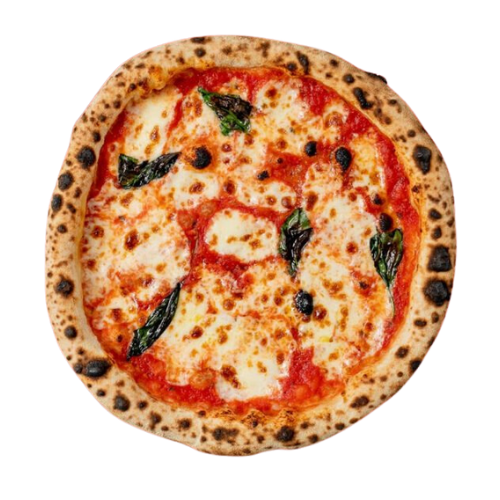
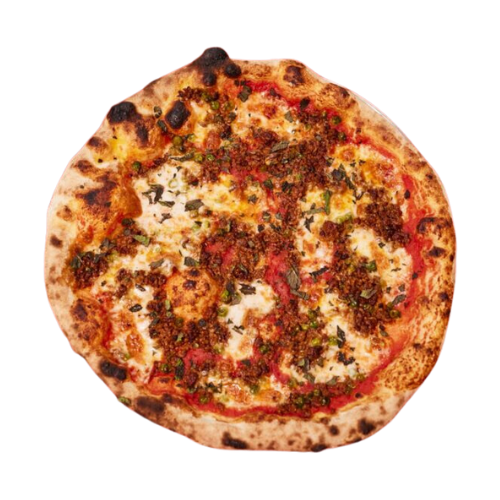
Update menu with correct pizzas and remove unused categories

diff --git a/src/data/products.ts b/src/data/products.ts
@@ -1,232 +1,134 @@
 export interface Product {
   id: string;
   name: string;
-  category: 'GARLIC' | 'CLASSICS' | 'ALFI_FAVS' | 'DIPS' | 'DRINKS' | 'DESSERT';
+  category: 'GARLIC' | 'CLASSICS' | 'ALFI_FAVS';
   price: number;
   description: string;
   subDescription?: string;
-  image?: string;
+  image: string;
 }
 
 export const products: Product[] = [
   // Garlic Section
   {
-    id: 'cheesy-garlic',
-    name: 'CHEESY GARLIC',
+    id: 'og',
+    name: 'The O.G.',
     category: 'GARLIC',
     price: 120,
-    description: 'Mozzarella, herbs, garlic',
-    subDescription: 'Soft, cheesy goodness with a perfect blend of herbs and garlic on a light, airy dough.'
-  },
-  {
-    id: 'garlic-bread',
-    name: 'GARLIC BREAD',
-    category: 'GARLIC',
-    price: 110,
-    description: 'Focaccia bread, garlic, olive oil',
-    subDescription: 'Crispy, herb-infused focaccia paired with fresh garlic and a drizzle of olive oil.'
-  },
-  {
-    id: 'nap-garlic-parmesan',
-    name: 'NAP GARLIC PARMESAN',
-    category: 'GARLIC',
-    price: 130,
-    description: 'Focaccia bread, garlic, olive oil',
-    subDescription: 'Crispy, herb-infused focaccia paired with fresh garlic and a drizzle of olive oil.'
-  },
-  {
-    id: 'garlic-ricotta',
-    name: 'GARLIC AND RICOTTA',
-    category: 'GARLIC',
-    price: 150,
-    description: 'Piped ricotta, garlic, olive oil, herbs',
-    subDescription: 'Delicate star-like dollops of creamy ricotta, kissed with roasted garlic and a drizzle of olive oil.'
+    description: 'Our signature garlic pizza',
+    image: '/pizzas/og_alfi_uber.png',
+    subDescription: 'The original garlic pizza that started it all'
   },
 
   // Classics Section
   {
-    id: 'margherita',
-    name: 'MARGHERITA',
+    id: 'margeritta',
+    name: 'Margeritta',
     category: 'CLASSICS',
-    price: 110,
-    description: 'Mozzarella, basil leaf, Nap sauce',
-    subDescription: 'The timeless classic – velvety mozzarella and fresh basil on a rich Nap sauce base.'
-  },
-  {
-    id: 'sicilian',
-    name: 'SICILIAN',
-    category: 'CLASSICS',
-    price: 160,
-    description: 'Capers, anchovies, kalamata olives',
-    subDescription: 'A bold pizza featuring briny capers, salty anchovies, and savory olives. Puttanesca Option: No anchovies, green & black olives, and diced tomatoes.'
-  },
-  {
-    id: 'funghi',
-    name: 'FUNGHI',
-    category: 'CLASSICS',
-    price: 160,
-    description: 'Creamy porcini, mozzarella, truffle',
-    subDescription: 'Earthy and luxurious porcini mushrooms with truffle, perfectly melted into creamy mozzarella.'
+    price: 120,
+    description: 'Classic Italian pizza with tomato and mozzarella',
+    image: '/pizzas/margeritta.png',
+    subDescription: 'The timeless classic'
   },
   {
     id: 'diavola',
-    name: 'DIAVOLA',
+    name: 'Diavola',
     category: 'CLASSICS',
-    price: 180,
-    description: 'Mozzarella, spicy Nap sauce',
-    subDescription: 'Spicy, fiery, and delicious – zesty Nap sauce with melted mozzarella for a bold kick.'
+    price: 140,
+    description: 'Spicy salami, tomato sauce, mozzarella',
+    image: '/pizzas/diavola_alfi_uber.png',
+    subDescription: 'For those who love it hot'
   },
   {
-    id: 'quatro-stagioni',
-    name: 'QUATRO STAGIONI',
+    id: 'funghi',
+    name: 'Funghi',
     category: 'CLASSICS',
-    price: 175,
-    description: 'Italian salami, artichoke, olives, onion',
-    subDescription: 'Savory Italian salami, tangy artichokes, briny olives, and sweet caramelized onions.'
+    price: 135,
+    description: 'Fresh mushrooms, mozzarella, herbs',
+    image: '/pizzas/fhungi_alfi_uber.png',
+    subDescription: 'Earthy mushroom goodness'
   },
   {
-    id: 'melanzane',
-    name: 'MELANZANE',
+    id: 'quatro-stagione',
+    name: 'Quatro Stagione',
     category: 'CLASSICS',
-    price: 160,
-    description: 'Roasted eggplant, mozzarella, Nap sauce, basil',
-    subDescription: 'Tender roasted eggplant, rich Nap sauce, creamy mozzarella, and fragrant basil. Simple, hearty, and packed with Mediterranean flavor.'
+    price: 150,
+    description: 'Four seasons on one pizza',
+    image: '/pizzas/quatro_alfi_uber.png',
+    subDescription: 'A taste of all seasons'
+  },
+  {
+    id: 'margeritta-speciale',
+    name: 'Margeritta Speciale',
+    category: 'CLASSICS',
+    price: 140,
+    description: 'Our special take on the classic',
+    image: '/pizzas/margspecial_alfi_uber.png',
+    subDescription: 'A special twist on tradition'
+  },
+  {
+    id: 'vegiterian',
+    name: 'Vegiterian',
+    category: 'CLASSICS',
+    price: 145,
+    description: 'Fresh vegetables and mozzarella',
+    image: '/pizzas/veg_alfi_uber.png',
+    subDescription: 'Garden fresh vegetables'
+  },
+  {
+    id: 'sicilian',
+    name: 'Sicilian',
+    category: 'CLASSICS',
+    price: 155,
+    description: 'Traditional Sicilian style pizza',
+    image: '/pizzas/sicilian_alfi_uber.png',
+    subDescription: 'A taste of Sicily'
+  },
+  {
+    id: 'mexicana',
+    name: 'Mexicana',
+    category: 'CLASSICS',
+    price: 155,
+    description: 'Mexican inspired flavors',
+    image: '/pizzas/mexicana.png',
+    subDescription: 'South of the border taste'
   },
 
   // Alfi Favs Section
   {
-    id: 'mexicana',
-    name: 'MEXICANA',
+    id: 'double-chorizo',
+    name: 'Double Chorizo',
     category: 'ALFI_FAVS',
-    price: 180,
-    description: 'Beef bolognese, onion, green pepper',
-    subDescription: 'A hearty pizza with rich beef bolognese, sweet green peppers, and caramelized onions.'
+    price: 165,
+    description: 'Double the chorizo, double the flavor',
+    image: '/pizzas/dblbeefchorizo_alfi_uber.png',
+    subDescription: 'For serious chorizo lovers'
   },
   {
-    id: 'double-pepperoni',
-    name: 'DOUBLE PEPPERONI',
+    id: 'prosciutto-rocket',
+    name: 'Proscuito & Rocket',
     category: 'ALFI_FAVS',
-    price: 195,
-    description: 'Mozzarella, pepperoni',
-    subDescription: 'Double the pepperoni, double the flavor – topped with bubbling mozzarella for a crowd-pleaser.'
+    price: 165,
+    description: 'Prosciutto and fresh rocket leaves',
+    image: '/pizzas/dblbeefchorizo_alfi_uber.png',
+    subDescription: 'Fresh and sophisticated'
   },
   {
-    id: 'chorizo',
-    name: 'CHORIZO',
+    id: 'double-beef-chorizo',
+    name: 'Double Beef Chorizo',
     category: 'ALFI_FAVS',
-    price: 185,
-    description: 'Chorizo, chargrilled jalapeño, pineapple',
-    subDescription: 'Smoky chorizo meets spicy jalapeños and sweet pineapple for a bold, balanced flavor bomb.'
+    price: 170,
+    description: 'Double beef and chorizo combination',
+    image: '/pizzas/dblbeefchorizo_alfi_uber.png',
+    subDescription: 'A meaty masterpiece'
   },
   {
-    id: 'pancetta',
-    name: 'PANCETTA',
+    id: 'pepperoncino',
+    name: 'Pepperoncino',
     category: 'ALFI_FAVS',
-    price: 175,
-    description: 'Pancetta, feta, avocado',
-    subDescription: 'Salty pancetta with creamy feta and fresh avo – the perfect sweet-savory combination.'
-  },
-
-  // Dips Section
-  {
-    id: 'aioli',
-    name: 'AIOLI',
-    category: 'DIPS',
-    price: 30,
-    description: 'Classic garlic aioli',
-    image: '/sides/aioli.png'
-  },
-  {
-    id: 'basil-pesto',
-    name: 'BASIL PESTO',
-    category: 'DIPS',
-    price: 30,
-    description: 'Fresh basil pesto',
-    image: '/sides/basil-pesto.png'
-  },
-  {
-    id: 'chilli-oil',
-    name: 'CHILLI OIL',
-    category: 'DIPS',
-    price: 30,
-    description: 'Spicy infused oil',
-    image: '/sides/chilli-oil.png'
-  },
-  {
-    id: 'creamy-pregro',
-    name: 'CREAMY PREGRO',
-    category: 'DIPS',
-    price: 30,
-    description: 'Rich and creamy sauce',
-    image: '/sides/creamy-pregro.png'
-  },
-  {
-    id: 'garlic-herb',
-    name: 'GARLIC & HERB',
-    category: 'DIPS',
-    price: 30,
-    description: 'Creamy garlic and herb sauce',
-    image: '/sides/garlic-herb.png'
-  },
-  {
-    id: 'gremolata',
-    name: 'GREMOLATA',
-    category: 'DIPS',
-    price: 30,
-    description: 'Herb-based Italian sauce',
-    image: '/sides/gremolata.png'
-  },
-
-  // Drinks Section
-  {
-    id: 'acqua-panna',
-    name: 'ACQUA PANNA',
-    category: 'DRINKS',
-    price: 35,
-    description: 'Still mineral water',
-    image: '/drinks/acquapana_still.png'
-  },
-  {
-    id: 'san-pellegrino',
-    name: 'SAN PELLEGRINO',
-    category: 'DRINKS',
-    price: 35,
-    description: 'Sparkling mineral water',
-    image: '/drinks/pelegrino_sparkling.png'
-  },
-  {
-    id: 'aranciata-rossa',
-    name: 'ARANCIATA ROSSA',
-    category: 'DRINKS',
-    price: 35,
-    description: 'Blood orange sparkling beverage',
-    image: '/drinks/pelegrino_aranciata_rossa.png'
-  },
-  {
-    id: 'aranciata',
-    name: 'ARANCIATA',
-    category: 'DRINKS',
-    price: 35,
-    description: 'Orange sparkling beverage',
-    image: '/drinks/pelegrino_aranciata.png'
-  },
-  {
-    id: 'tangerine',
-    name: 'TANGERINE',
-    category: 'DRINKS',
-    price: 35,
-    description: 'Tangerine sparkling beverage',
-    image: '/drinks/pelegrino_tangerine_stra.png'
-  },
-
-  // Dessert Section
-  {
-    id: 'smores-pizza',
-    name: 'SMORES PIZZA',
-    category: 'DESSERT',
-    price: 95,
-    description: 'Nutella, marshmallows, crushed biscuits',
-    subDescription: 'A decadent dessert pizza featuring rich Nutella, toasted marshmallows, and crumbled biscuits.',
-    image: '/pizzas/smores_dessert.png'
+    price: 155,
+    description: 'Spicy pepperoncini peppers',
+    image: '/pizzas/pepperoncino_alfi_uber.png',
+    subDescription: 'With a spicy kick'
   }
 ]; 

diff --git a/src/components/MenuGrid.tsx b/src/components/MenuGrid.tsx
@@ -43,42 +43,6 @@ export default function MenuGrid() {
         </div>
       </section>
 
-      {/* Dips Section */}
-      <section id="dips" className="scroll-mt-24">
-        <h2 className="text-5xl font-recoleta text-[#f6f6ed] text-center mb-16">DIP SAUCE</h2>
-        <div className="flex flex-wrap justify-center items-start gap-x-16 gap-y-24 max-w-7xl mx-auto px-4">
-          {products
-            .filter(p => p.category === 'DIPS')
-            .map(product => (
-              <ProductCard key={product.id} product={product} />
-            ))}
-        </div>
-      </section>
-
-      {/* Drinks Section */}
-      <section id="drinks" className="scroll-mt-24">
-        <h2 className="text-5xl font-recoleta text-[#f6f6ed] text-center mb-16">DRINKS</h2>
-        <div className="flex flex-wrap justify-center items-start gap-x-16 gap-y-24 max-w-7xl mx-auto px-4">
-          {products
-            .filter(p => p.category === 'DRINKS')
-            .map(product => (
-              <ProductCard key={product.id} product={product} variant="compact" />
-            ))}
-        </div>
-      </section>
-
-      {/* Dessert Section */}
-      <section id="dessert" className="scroll-mt-24">
-        <h2 className="text-5xl font-recoleta text-[#f6f6ed] text-center mb-16">DESSERT</h2>
-        <div className="flex flex-wrap justify-center items-start gap-x-16 gap-y-24 max-w-7xl mx-auto px-4">
-          {products
-            .filter(p => p.category === 'DESSERT')
-            .map(product => (
-              <ProductCard key={product.id} product={product} />
-            ))}
-        </div>
-      </section>
-
       {/* Location Section */}
       <Location />
     </div>
